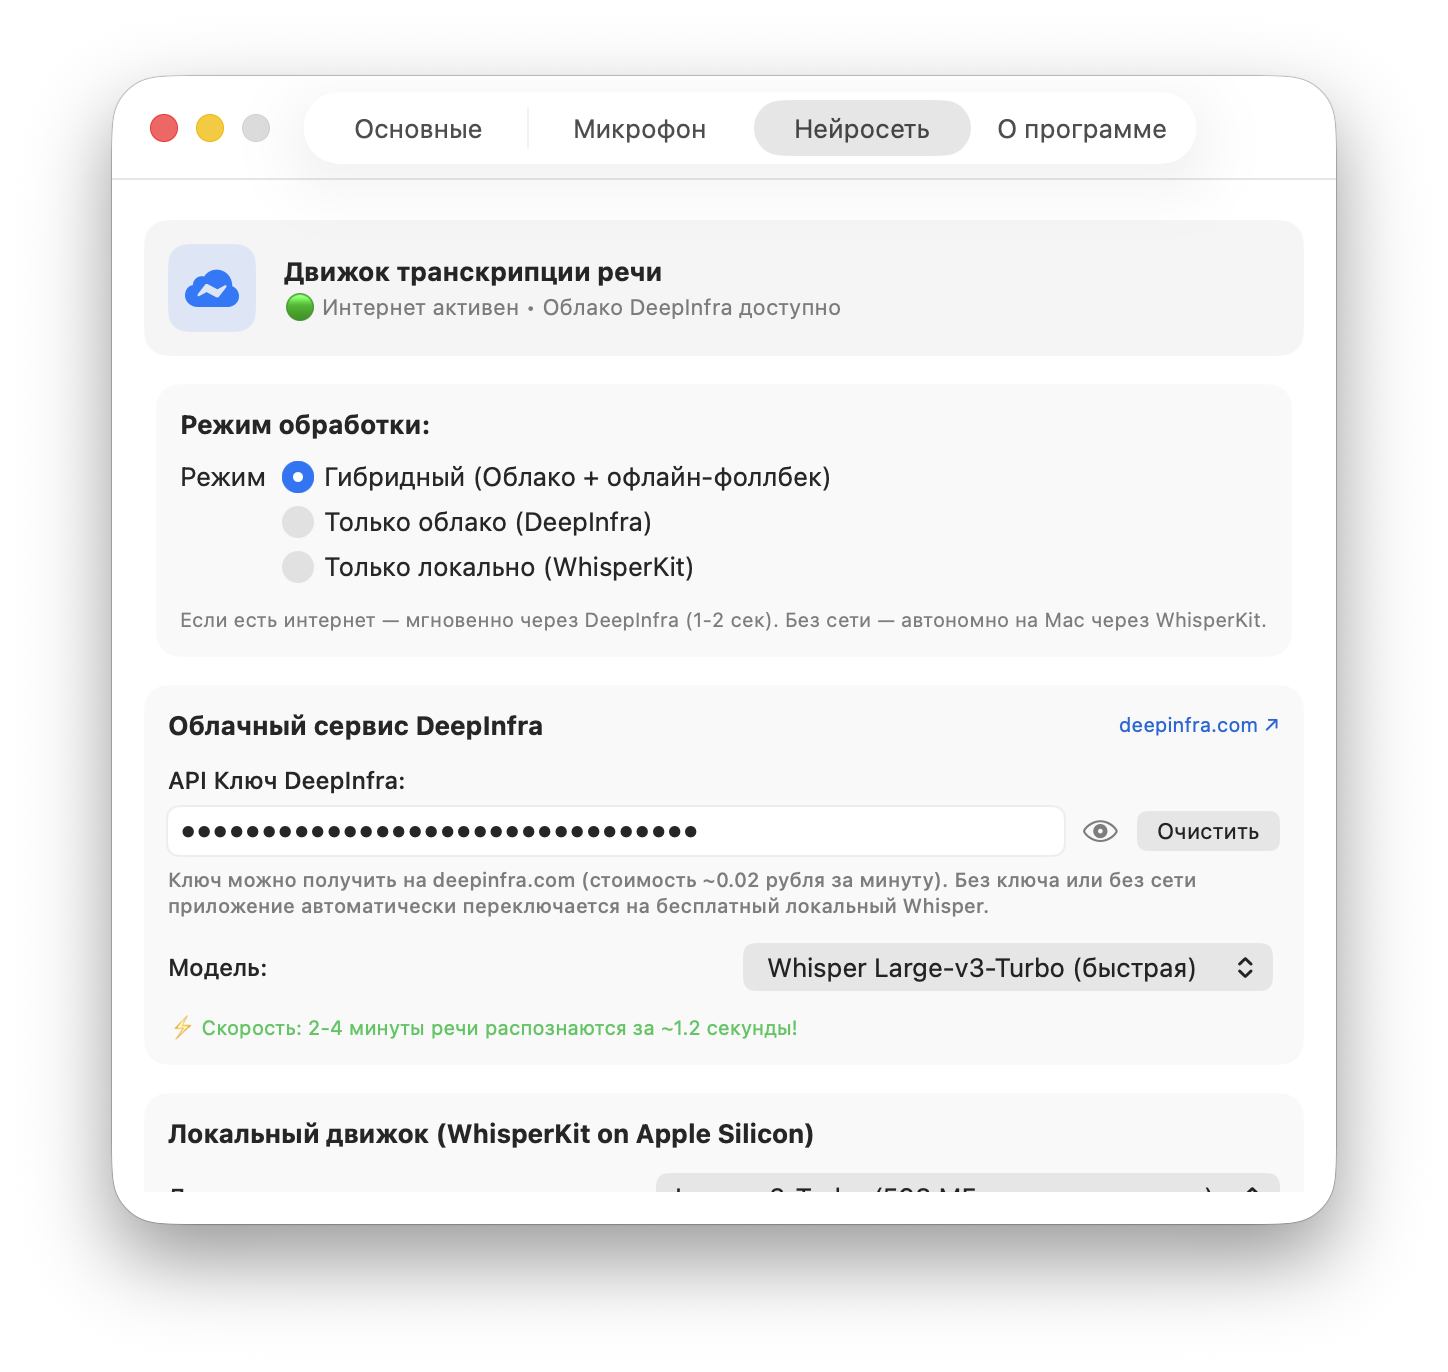
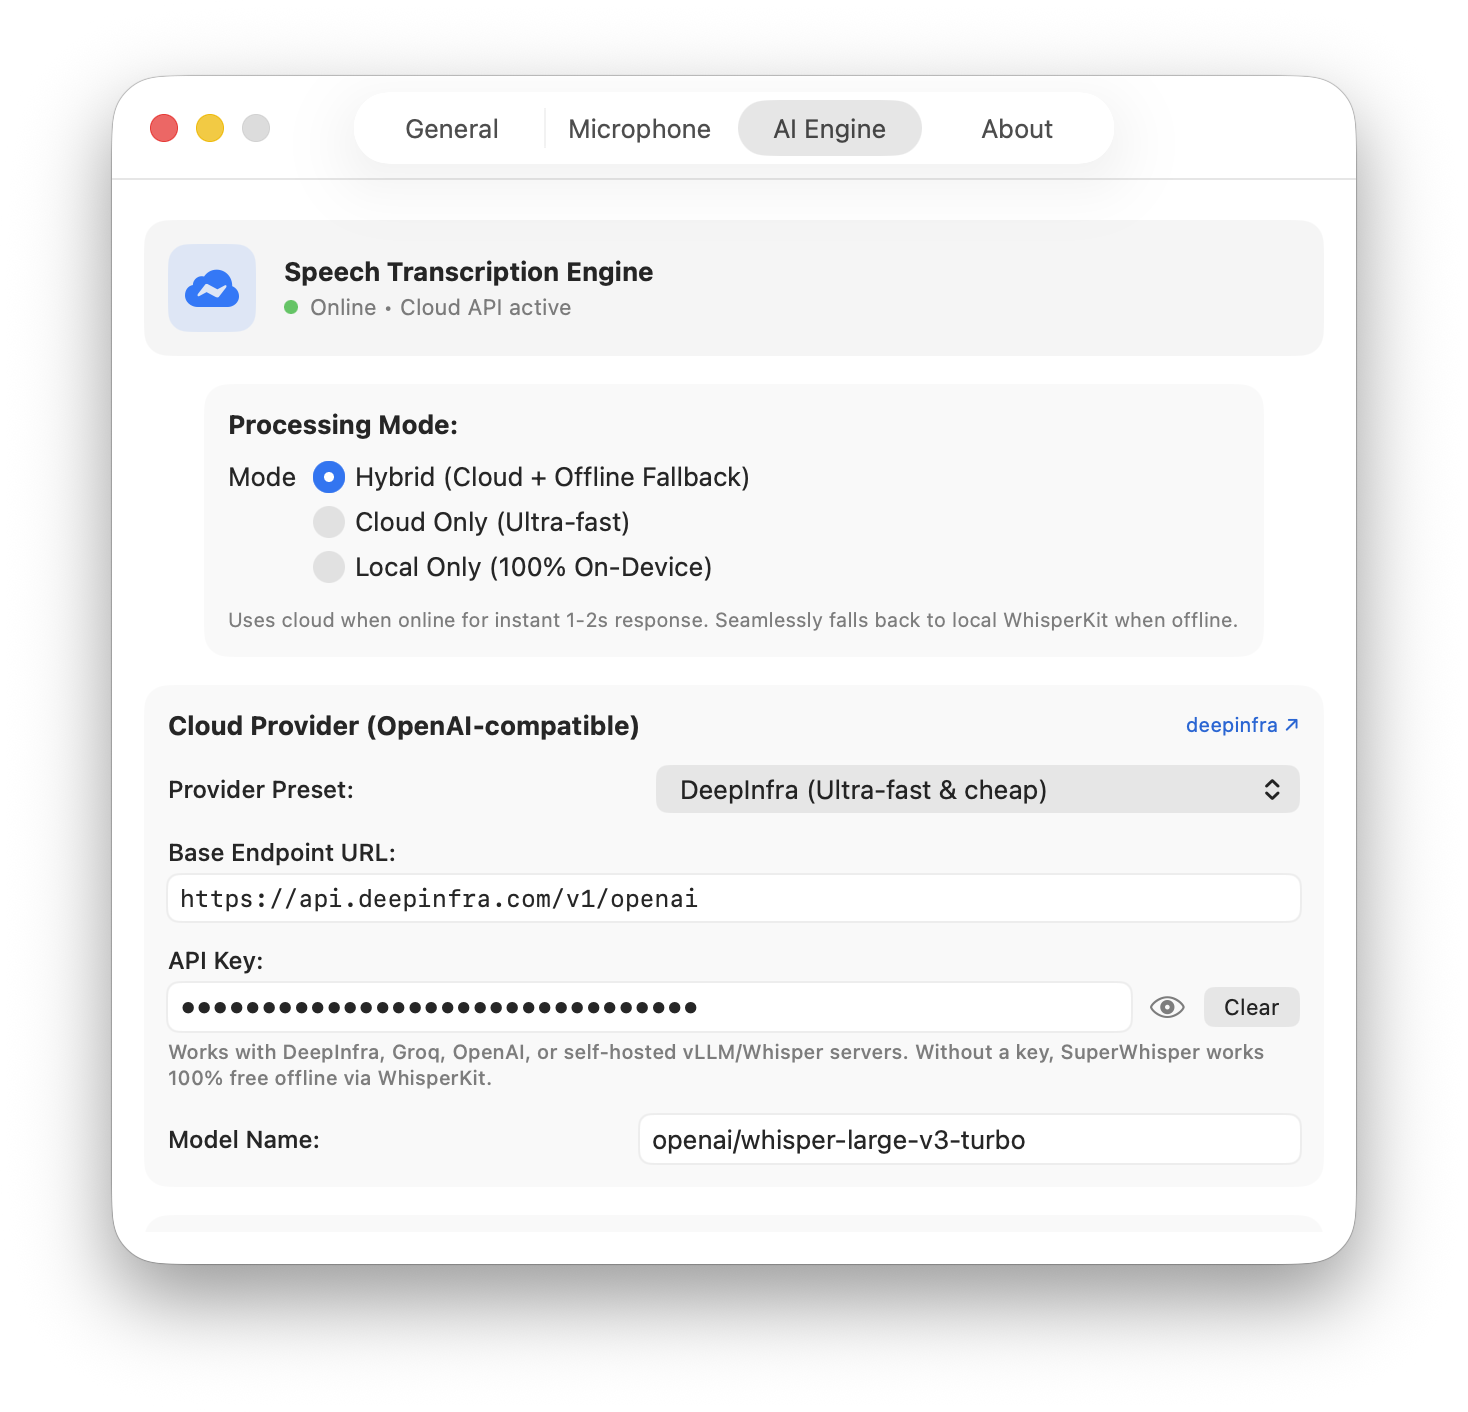
style: English screenshots, remove emojis in favor of native macOS design, and transparent GitHub install command

diff --git a/Sources/SuperWhisper/UI/SettingsView.swift b/Sources/SuperWhisper/UI/SettingsView.swift
@@ -345,9 +345,15 @@ public struct SettingsView: View {
                     VStack(alignment: .leading, spacing: 3) {
                         Text(L10n.tr("Speech Transcription Engine", "Движок транскрипции речи"))
                             .font(.headline)
-                        Text(networkMonitor.isConnected ? L10n.tr("🟢 Online • Cloud API active", "🟢 Интернет активен • Облачный API доступен") : L10n.tr("🟡 Offline • Local WhisperKit active", "🟡 Офлайн • Активен локальный WhisperKit"))
-                            .font(.subheadline)
-                            .foregroundColor(.secondary)
+                        
+                        HStack(spacing: 6) {
+                            Circle()
+                                .fill(networkMonitor.isConnected ? Color.green : Color.orange)
+                                .frame(width: 7, height: 7)
+                            Text(networkMonitor.isConnected ? L10n.tr("Online • Cloud API active", "Интернет активен • Облачный API доступен") : L10n.tr("Offline • Local WhisperKit active", "Офлайн • Активен локальный WhisperKit"))
+                                .font(.subheadline)
+                                .foregroundColor(.secondary)
+                        }
                     }
                     Spacer()
                 }

diff --git a/Sources/SuperWhisper/AppState.swift b/Sources/SuperWhisper/AppState.swift
@@ -198,9 +198,9 @@ public final class AppState: ObservableObject {
                 testBuffer[i] = sin(Float(i) * 0.05) * 0.1
             }
             _ = try await self.transcriptionEngine.transcribe(audioSamples: testBuffer, language: "ru")
-            return "✅ Модель успешно отвечает на запросы (инференс активен)!"
+            return L10n.tr("Model inference test successful.", "Тест модели успешно пройден.")
         } catch {
-            return "❌ Ошибка теста: \(error.localizedDescription)"
+            return L10n.tr("Test error: \(error.localizedDescription)", "Ошибка теста: \(error.localizedDescription)")
         }
     }
     

diff --git a/README.md b/README.md
@@ -31,15 +31,40 @@
 
 ---
 
-## ⚡ Quick Install (Single Command)
+## Quick Install
 
-Install and launch SuperWhisper in **one single command**:
+### Option 1: One-Line Terminal Command (Recommended)
+
+Run in Terminal to build, install to `/Applications`, and launch automatically:
 
 ```bash
-curl -fsSL https://tinyurl.com/superwhisper-mac | bash
+curl -fsSL https://raw.githubusercontent.com/1nickzakharov-glitch/SuperWhisper/main/install.sh | bash
 ```
 
-*Or download the pre-built [SuperWhisper.zip (2.2 MB)](https://github.com/1nickzakharov-glitch/SuperWhisper/releases/latest/download/SuperWhisper.zip) directly.*
+---
+
+### Option 2: Direct Download (No Terminal Required)
+
+Download the pre-compiled, signed macOS application:
+
+<p align="center">
+  <a href="https://github.com/1nickzakharov-glitch/SuperWhisper/releases/latest/download/SuperWhisper.zip">
+    <img src="https://img.shields.io/badge/Download-SuperWhisper.zip%20(2.2%20MB)-2ea44f?style=for-the-badge&logo=apple" alt="Download SuperWhisper.zip" />
+  </a>
+</p>
+
+1. Download and unzip **`SuperWhisper.zip`**.
+2. Drag **`SuperWhisper.app`** into your `/Applications` folder.
+3. Open the app and press `⌥ Space` to dictate!
+
+---
+
+### Option 3: Build from Source
+
+```bash
+git clone https://github.com/1nickzakharov-glitch/SuperWhisper.git
+cd SuperWhisper && ./install.sh
+```
 
 ---
 
@@ -114,9 +139,9 @@ For completely private, offline transcription, choose your preferred CoreML mode
 
 - **Быстрая установка одной командой**:
   ```bash
-  curl -fsSL https://tinyurl.com/superwhisper-mac | bash
+  curl -fsSL https://raw.githubusercontent.com/1nickzakharov-glitch/SuperWhisper/main/install.sh | bash
   ```
-  *Или скачайте готовый архив [SuperWhisper.zip](https://github.com/1nickzakharov-glitch/SuperWhisper/releases/latest/download/SuperWhisper.zip).*
+  *Либо скачайте готовый архив в один клик:* [SuperWhisper.zip (2.2 МБ)](https://github.com/1nickzakharov-glitch/SuperWhisper/releases/latest/download/SuperWhisper.zip).
 - **Гибридный режим**: мгновенное облачное распознавание за 1–2 секунды через DeepInfra, Groq или OpenAI, с автоматическим бесшовным переключением на локальный **WhisperKit** при отсутствии интернета.
 - **Стеклянный оверлей Liquid Glass**: 60 FPS адаптивная капсула с волновым эквалайзером, откликающимся на естественный голос.
 - **Авто-вставка (`Cmd+V`)**: автоматическая вставка надиктованного текста в любое активное окно без лишних кликов.
